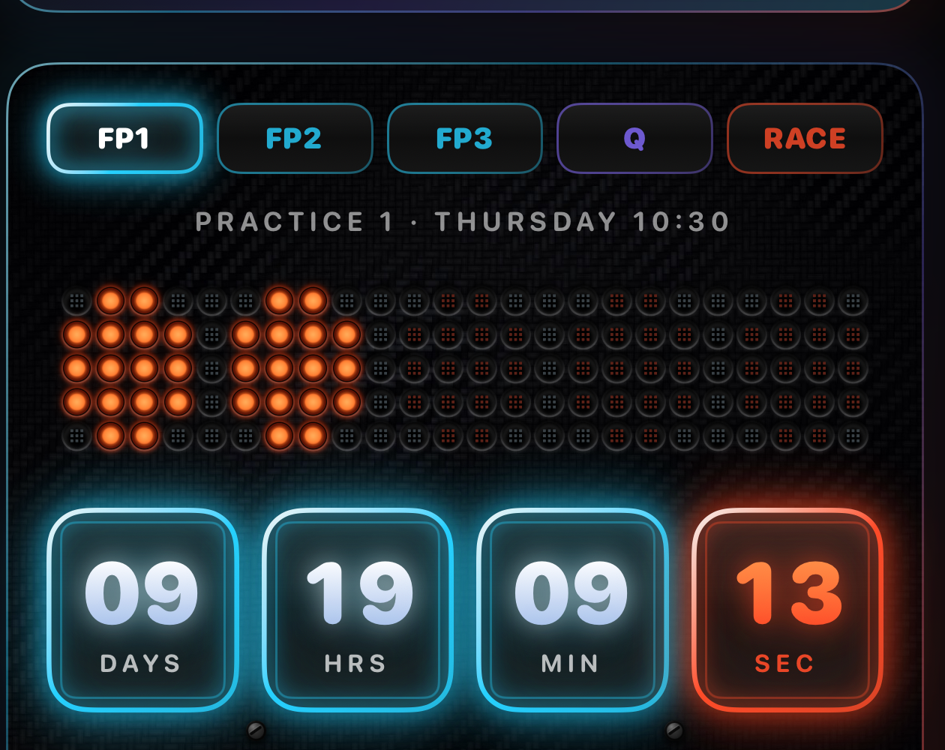
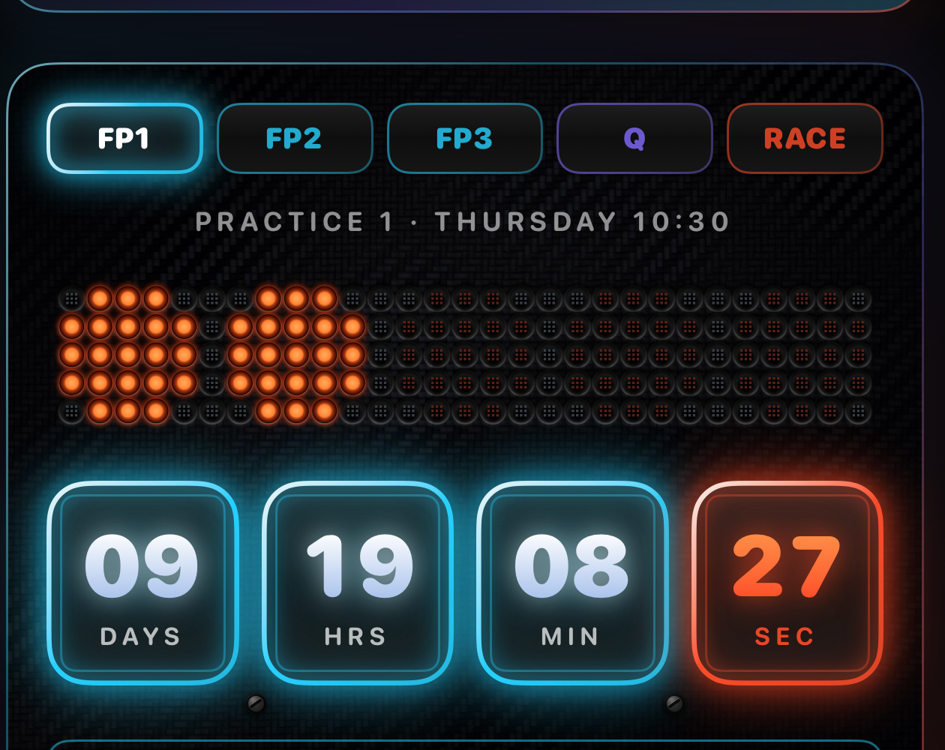
Round 5×5 lights on a 29-column matrix

diff --git a/TeamRadio/Views/CockpitKit.swift b/TeamRadio/Views/CockpitKit.swift
@@ -91,7 +91,7 @@ struct NeonTile: View {
     }
 }
 
-/// The LED matrix: 24×5 sockets. At rest it shows the five start lights
+/// The LED matrix: 29×5 sockets. At rest it shows the five start lights
 /// (rounded blocks, lit from the left through race week). Tap it and it
 /// scrambles like a sci-fi readout, resolves to the next info page (session
 /// time, date, days to go, round) in cyan, then falls back to the lights.
@@ -106,7 +106,7 @@ struct DotMatrixBoard: View {
     @State private var transitionStart: Date?
     @State private var settle: Task<Void, Never>?
 
-    private static let cols = 24, rows = 5
+    private static let cols = 29, rows = 5
     private static let scramble: TimeInterval = 0.9
     private static let hold: TimeInterval = 5
 
@@ -128,19 +128,19 @@ struct DotMatrixBoard: View {
     private func target(for page: Int) -> [Int: Double] {
         var cells: [Int: Double] = [:]
         if page == 0 {
-            // five rounded 4×5 blocks (corners dark), one dark column between
+            // five round 5×5 discs (corners dark), one dark column between
             for c in 0..<5 {
-                let c0 = c * 5
-                for dc in 0..<4 {
+                let c0 = c * 6
+                for dc in 0..<5 {
                     for dr in 0..<5 {
-                        let corner = (dc == 0 || dc == 3) && (dr == 0 || dr == 4)
+                        let corner = (dc == 0 || dc == 4) && (dr == 0 || dr == 4)
                         guard !corner else { continue }
                         cells[dr * 1000 + c0 + dc] = c < litLights ? 1 : 0
                     }
                 }
             }
         } else {
-            let text = Array(pages[page - 1].uppercased().prefix(6))
+            let text = Array(pages[page - 1].uppercased().prefix(7))
             let width = text.count * 4 - 1
             var col = max(0, (Self.cols - width) / 2)
             for ch in text {
@@ -196,7 +196,7 @@ struct DotMatrixBoard: View {
                 let pitch = size.width / (CGFloat(cols) + 0.8)
                 let left = pitch * 0.4
                 let top = (size.height - CGFloat(rows) * pitch) / 2
-                let hole = pitch * 0.40          // big, with a small clear gap
+                let hole = pitch * 0.42          // big, with a small clear gap
                 let die = hole * 0.21            // side of one grey square in an unlit socket
                 let dieStep = hole * 0.37
 
@@ -323,7 +323,7 @@ struct DotMatrixBoard: View {
             }
         }
         // a little taller than the grid so the halos aren't clipped
-        .frame(height: 104)
+        .frame(height: 92)
         .padding(.vertical, -8)
         .contentShape(Rectangle())
         .onTapGesture { advance() }
